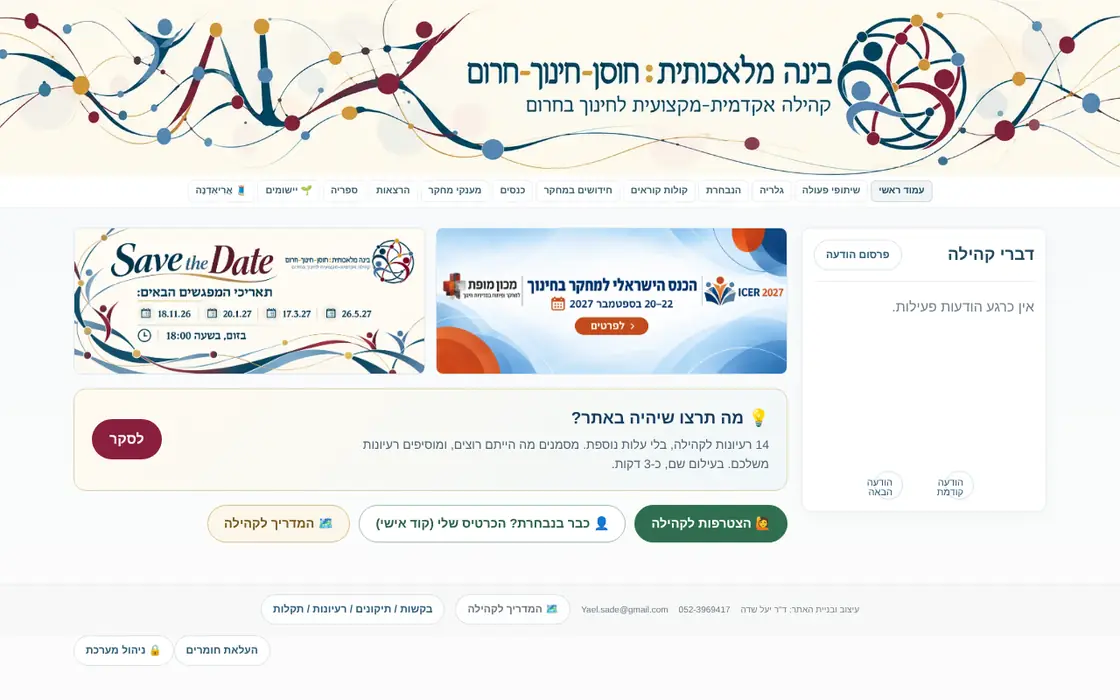
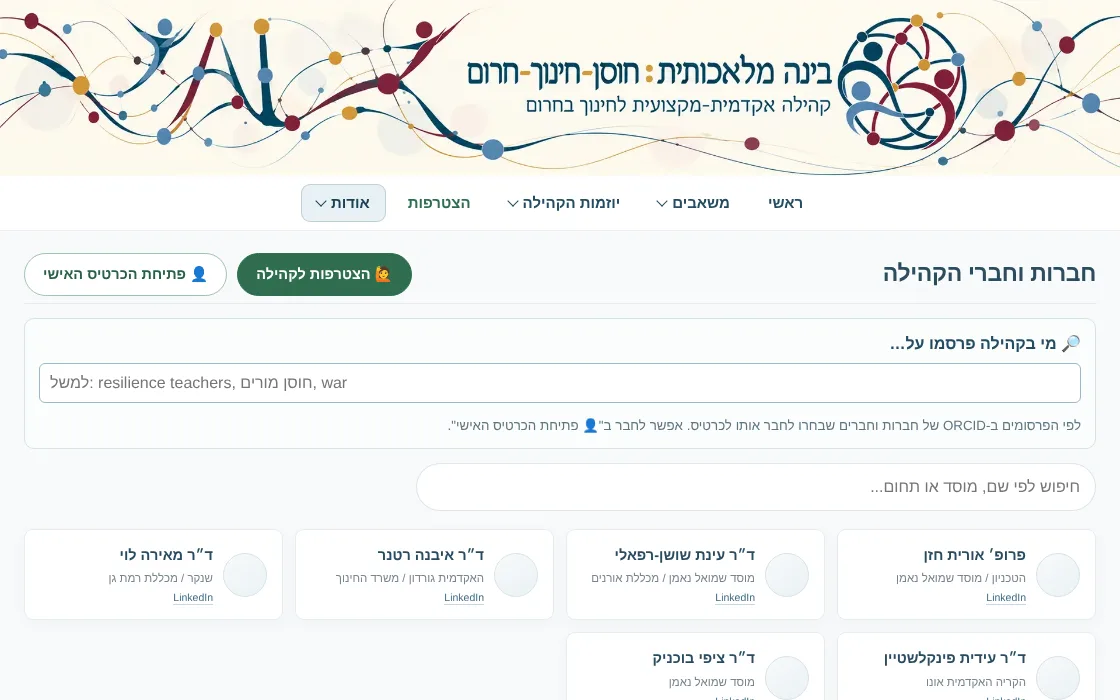
מדריך: צילום חדש לסיור "לעדכן את הכרטיס שלי" (עמוד חברות וחברי הקהילה), ותיקון החלפת התמונות בסיור
Claude-Session: https://claude.ai/code/session_01BDkU3foLWwAR1Kfj3FHLJD

diff --git a/guide.html b/guide.html
@@ -317,7 +317,7 @@ const $=id=>document.getElementById(id);
 const esc=s=>String(s).replace(/[&<>"]/g,c=>({'&':'&amp;','<':'&lt;','>':'&gt;','"':'&quot;'}[c]));
 
 // הצילומים והמיקום של היעד בכל צילום (באחוזים), כפי שצולמו מהאתר.
-const BOX={"card-1":[31.6,71.34,24.77,6.9],"card-2":[26.25,17.3,47.5,6.7],"card-3":[26.25,27.75,47.5,19],"card-4":[26.25,31.6,47.5,16],"card-5":[26.25,28.2,47.5,43.5],"card-6":[63.51,83.62,10.24,5.85],"card-7":[26.25,88.84,47.5,4.1],"post-1":[6.8,65.57,43.32,5.85],"post-2":[49.88,16.6,30.2,8.45],"calls-1":[20.14,38.08,12.03,5.85],"calls-2":[49.42,45.68,42.93,6.3],"calls-3":[18.8,45.68,30.93,6.3],"calls-4":[72.26,52.32,9.64,5],"calls-5":[7.66,2.58,12.79,5.85],"calls-6":[27.11,17.22,45.78,76.45],"match-1":[53.66,51.47,11.74,6.77],"match-2":[41.79,51.47,12.33,6.77],"match-3":[26.25,21.42,47.5,78],"match-4":[7.66,41.78,14.44,5.85],"research-1":[49.88,31.68,44.73,46.29],"research-2":[35.19,52.22,7.59,5.3],"research-3":[62.77,44.84,30.9,20.05],"research-4":[50.74,51.25,43.01,7.17],"research-5":[6.8,4.28,86.41,94],"board-1":[72.19,33.51,8.8,5.9],"board-2":[19.92,45.79,60.16,6.4],"ariadne-1":[17.68,51.19,74.27,7.25],"ariadne-2":[50,44.69,21.95,20.43],"ariadne-3":[71.95,46.25,21.95,17.23],"ariadne-4":[71.95,45.99,21.95,17.75],"nevet-1":[8.05,47.86,83.91,9.61],"nevet-2":[51.41,35.8,41.02,38.2],"join-1":[56.21,71.34,14.57,6.9],"join-2":[26.25,18.82,47.5,79]};
+const BOX={"card-1":[1.6,35.4,19.2,7.6],"card-2":[26.25,17.3,47.5,6.7],"card-3":[26.25,27.75,47.5,19],"card-4":[26.25,31.6,47.5,16],"card-5":[26.25,28.2,47.5,43.5],"card-6":[63.51,83.62,10.24,5.85],"card-7":[26.25,88.84,47.5,4.1],"post-1":[6.8,65.57,43.32,5.85],"post-2":[49.88,16.6,30.2,8.45],"calls-1":[20.14,38.08,12.03,5.85],"calls-2":[49.42,45.68,42.93,6.3],"calls-3":[18.8,45.68,30.93,6.3],"calls-4":[72.26,52.32,9.64,5],"calls-5":[7.66,2.58,12.79,5.85],"calls-6":[27.11,17.22,45.78,76.45],"match-1":[53.66,51.47,11.74,6.77],"match-2":[41.79,51.47,12.33,6.77],"match-3":[26.25,21.42,47.5,78],"match-4":[7.66,41.78,14.44,5.85],"research-1":[49.88,31.68,44.73,46.29],"research-2":[35.19,52.22,7.59,5.3],"research-3":[62.77,44.84,30.9,20.05],"research-4":[50.74,51.25,43.01,7.17],"research-5":[6.8,4.28,86.41,94],"board-1":[72.19,33.51,8.8,5.9],"board-2":[19.92,45.79,60.16,6.4],"ariadne-1":[17.68,51.19,74.27,7.25],"ariadne-2":[50,44.69,21.95,20.43],"ariadne-3":[71.95,46.25,21.95,17.23],"ariadne-4":[71.95,45.99,21.95,17.75],"nevet-1":[8.05,47.86,83.91,9.61],"nevet-2":[51.41,35.8,41.02,38.2],"join-1":[56.21,71.34,14.57,6.9],"join-2":[26.25,18.82,47.5,79]};
 
 const TOURS=[
  {id:'card',ic:'👤',name:'לעדכן את הכרטיס שלי',sub:'כניסה בקוד האישי, ועריכה של הכרטיס באתר',path:'/people',steps:[
@@ -377,7 +377,7 @@ const imgs=[$('imgA'),$('imgB')];let front=0;
 const spot=$('spot'),cursor=$('cursor'),ripple=$('ripple'),bar=$('bar');
 let tour=TOURS[0],i=0,playing=!reduce,timer=null;
 const DUR=6500;
-const preload=t=>t.steps.forEach(s=>{const im=new Image();im.src=IMG+s[0]+'.webp'});
+const preload=t=>t.steps.forEach(s=>{const im=new Image();im.src=IMG+s[0]+'.webp?v=20261119'});
 
 function place(box){
   let [x,y,w,h]=box; h=Math.min(h,100-y); w=Math.min(w,100-x);
@@ -392,9 +392,10 @@ function show(n){
   i=Math.max(0,Math.min(n,tour.steps.length-1));
   const [key,path,title,text,tip]=tour.steps[i];
   const back=imgs[1-front];
-  back.onload=()=>{back.classList.remove('out');imgs[front].classList.add('out');front=1-front;place(BOX[key])};
+  let shown=false;
+  back.onload=()=>{if(shown)return;shown=true;back.classList.remove('out');imgs[front].classList.add('out');front=1-front;place(BOX[key])};
   back.alt=title+': '+text;
-  back.src=IMG+key+'.webp';
+  back.src=IMG+key+'.webp?v=20261119';
   if(back.complete&&back.naturalWidth)back.onload();
   $('url').textContent='hosen-hinuch-herum.netlify.app'+path;
   $('capMission').textContent=tour.ic+' '+tour.name;

diff --git a/index.html b/index.html
@@ -2531,7 +2531,7 @@ body:has(.feedback-modal.open){
   <p>הקהילה פעילה כשחברות וחברים לוקחים על עצמם תפקיד, קטן או גדול. בוחרים תפקיד, לוחצים "אני רוצה", והפנייה מגיעה להנהלת הקהילה.</p></div></div>
   <div class="roles-grid" id="rolesGrid"></div>
 </section>
-<div id="expertiseBox" class="expertise-box"><label for="expertiseQ">🔎 מי בקהילה פרסמו על…</label><input id="expertiseQ" type="search" dir="auto" placeholder="למשל: resilience teachers, חוסן מורים, war"><div id="expertiseOut" aria-live="polite"></div><small>לפי הפרסומים ב-ORCID של חברות וחברים שבחרו לחבר אותו לכרטיס. אפשר לחבר ב"👤 הכרטיס שלי".</small></div>
+<div id="expertiseBox" class="expertise-box"><label for="expertiseQ">🔎 מי בקהילה פרסמו על…</label><input id="expertiseQ" type="search" dir="auto" placeholder="למשל: resilience teachers, חוסן מורים, war"><div id="expertiseOut" aria-live="polite"></div><small>לפי הפרסומים ב-ORCID של חברות וחברים שבחרו לחבר אותו לכרטיס. אפשר לחבר ב"👤 פתיחת הכרטיס האישי".</small></div>
 <input class="search" id="search" placeholder="חיפוש לפי שם, מוסד או תחום..." oninput="filterPeople()"><div class="people" id="peopleGrid">
 <div class="person" data-search="ד״ר איבנה רטנר האקדמית גורדון / משרד החינוך אוריינות מדיה קולנוע ומדיה PISA 2029 מנהלת תחום (מפמ״ר) קולנוע ומדיה באגף אמנויות, משרד החינוך; מרצה ורכזת פדגוגית בחוג להוראת תקשורת ומדיה באקדמית גורדון. עוסקת באוריינות מדיה, אזרחות דיגיטלית, דיאלוג דרך קולנוע ומדיה, חינוך רב־תרבותי ובינה מלאכותית בחינוך; מובילה חשיבה לקראת PISA 2029. מייל: ratnere@gmail.com • טלפון: 0507156711" data-name="ד״ר איבנה רטנר" data-inst="האקדמית גורדון / משרד החינוך" data-detail="מנהלת תחום (מפמ״ר) קולנוע ומדיה באגף אמנויות, משרד החינוך; מרצה ורכזת פדגוגית בחוג להוראת תקשורת ומדיה באקדמית גורדון. עוסקת באוריינות מדיה, אזרחות דיגיטלית, דיאלוג דרך קולנוע ומדיה, חינוך רב־תרבותי ובינה מלאכותית בחינוך; מובילה חשיבה לקראת PISA 2029. מייל: ratnere@gmail.com • טלפון: 0507156711" onclick="showPerson(this.dataset.name,this.dataset.inst,this.dataset.detail)"><h3>ד״ר איבנה רטנר</h3><div class="muted">האקדמית גורדון / משרד החינוך</div></div>
 <div class="person" data-search="ד״ר שרי גנון-שילון האקדמית אחוה חדשנות טכנולוגית ניהול בתי ספר תחומי עיסוק מרכזיים: חדשנות טכנולוגית בחינוך, ניהול והובלת בתי ספר, הובלת שינוי ארגוני ופדגוגי ושילוב טכנולוגיה במערכות חינוך." data-name="ד״ר שרי גנון-שילון" data-inst="האקדמית אחוה" data-detail="תחומי עיסוק מרכזיים: חדשנות טכנולוגית בחינוך, ניהול והובלת בתי ספר, הובלת שינוי ארגוני ופדגוגי ושילוב טכנולוגיה במערכות חינוך." onclick="showPerson(this.dataset.name,this.dataset.inst,this.dataset.detail)"><h3>ד״ר שרי גנון-שילון</h3><div class="muted">האקדמית אחוה</div></div>
